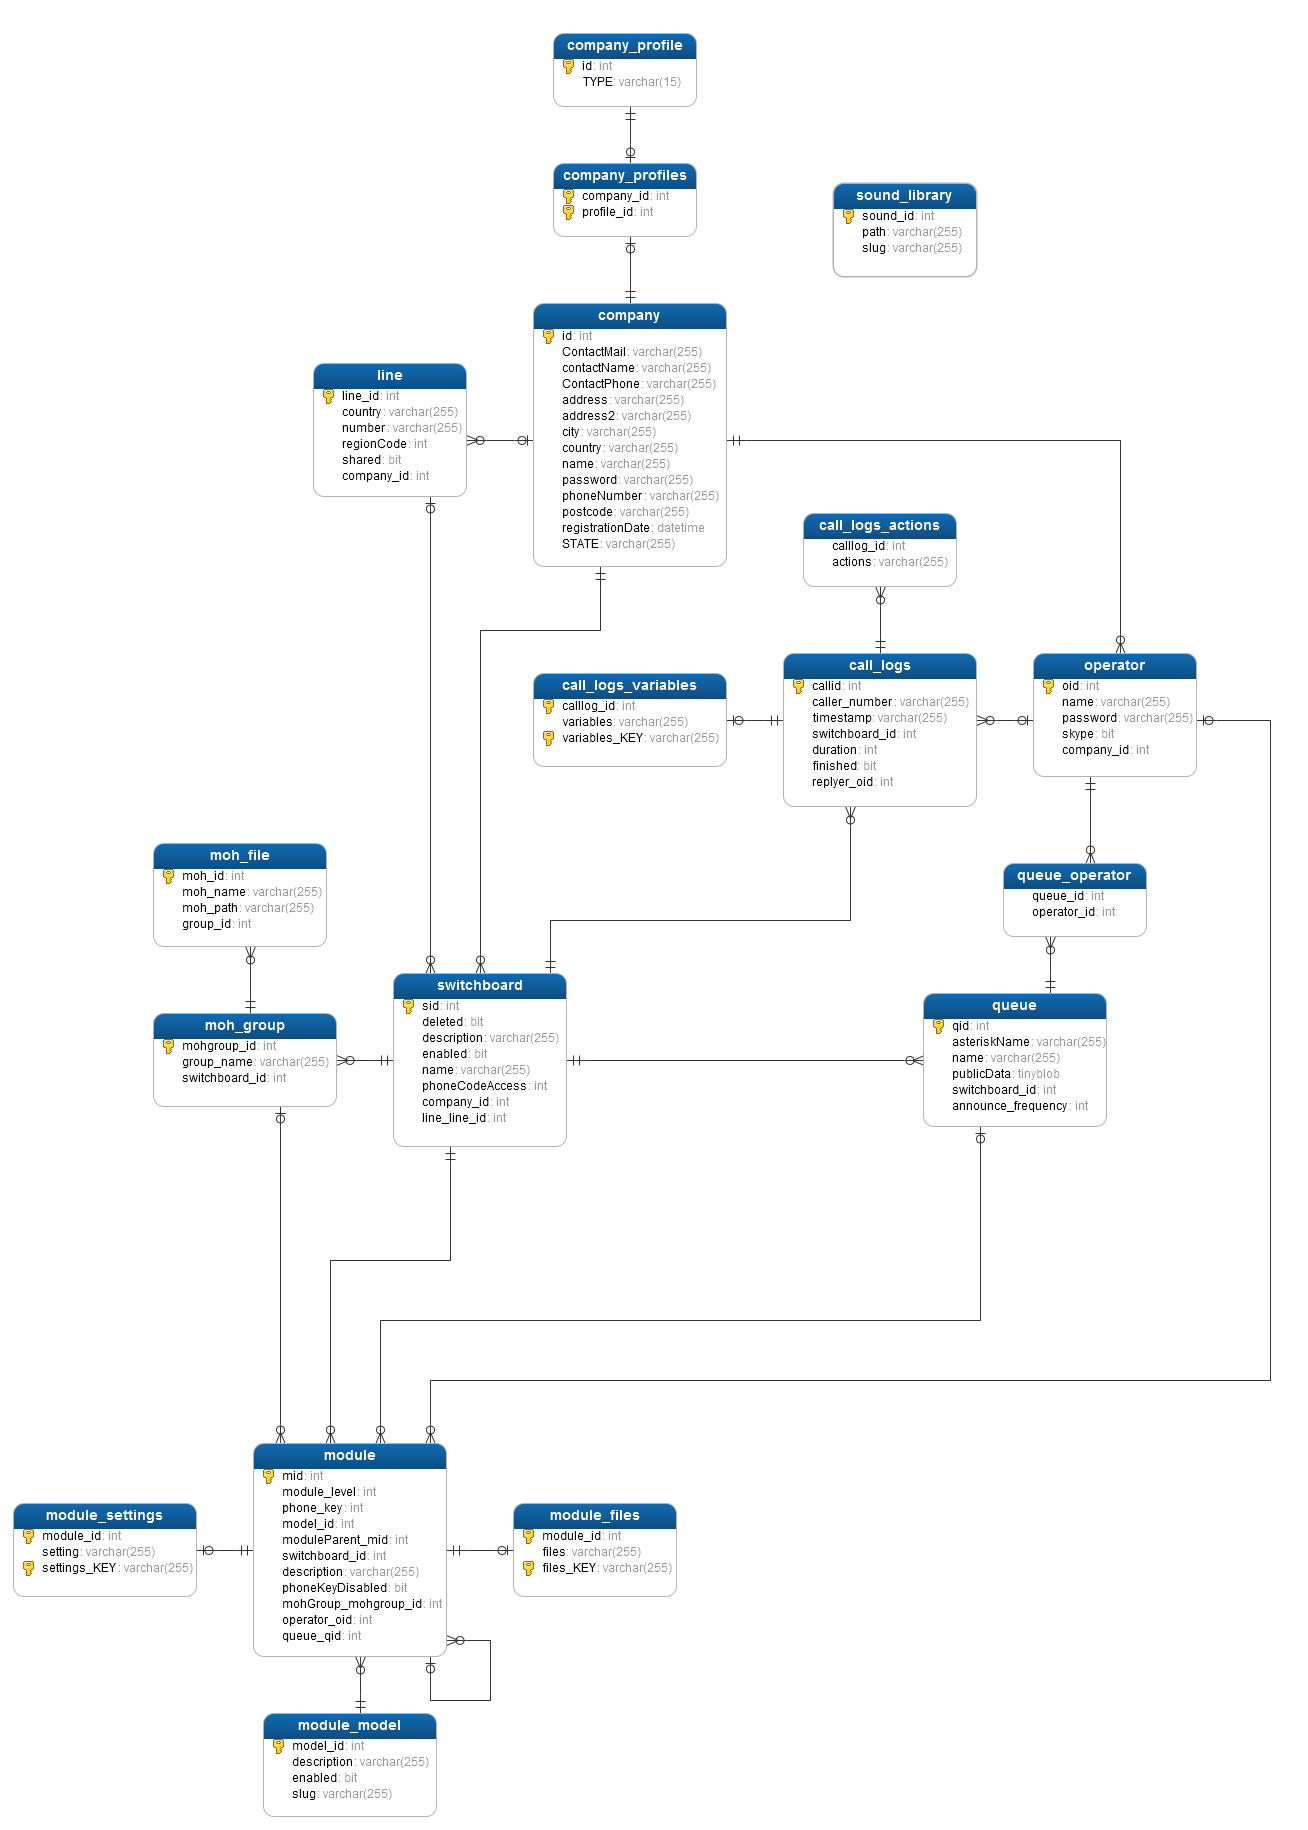
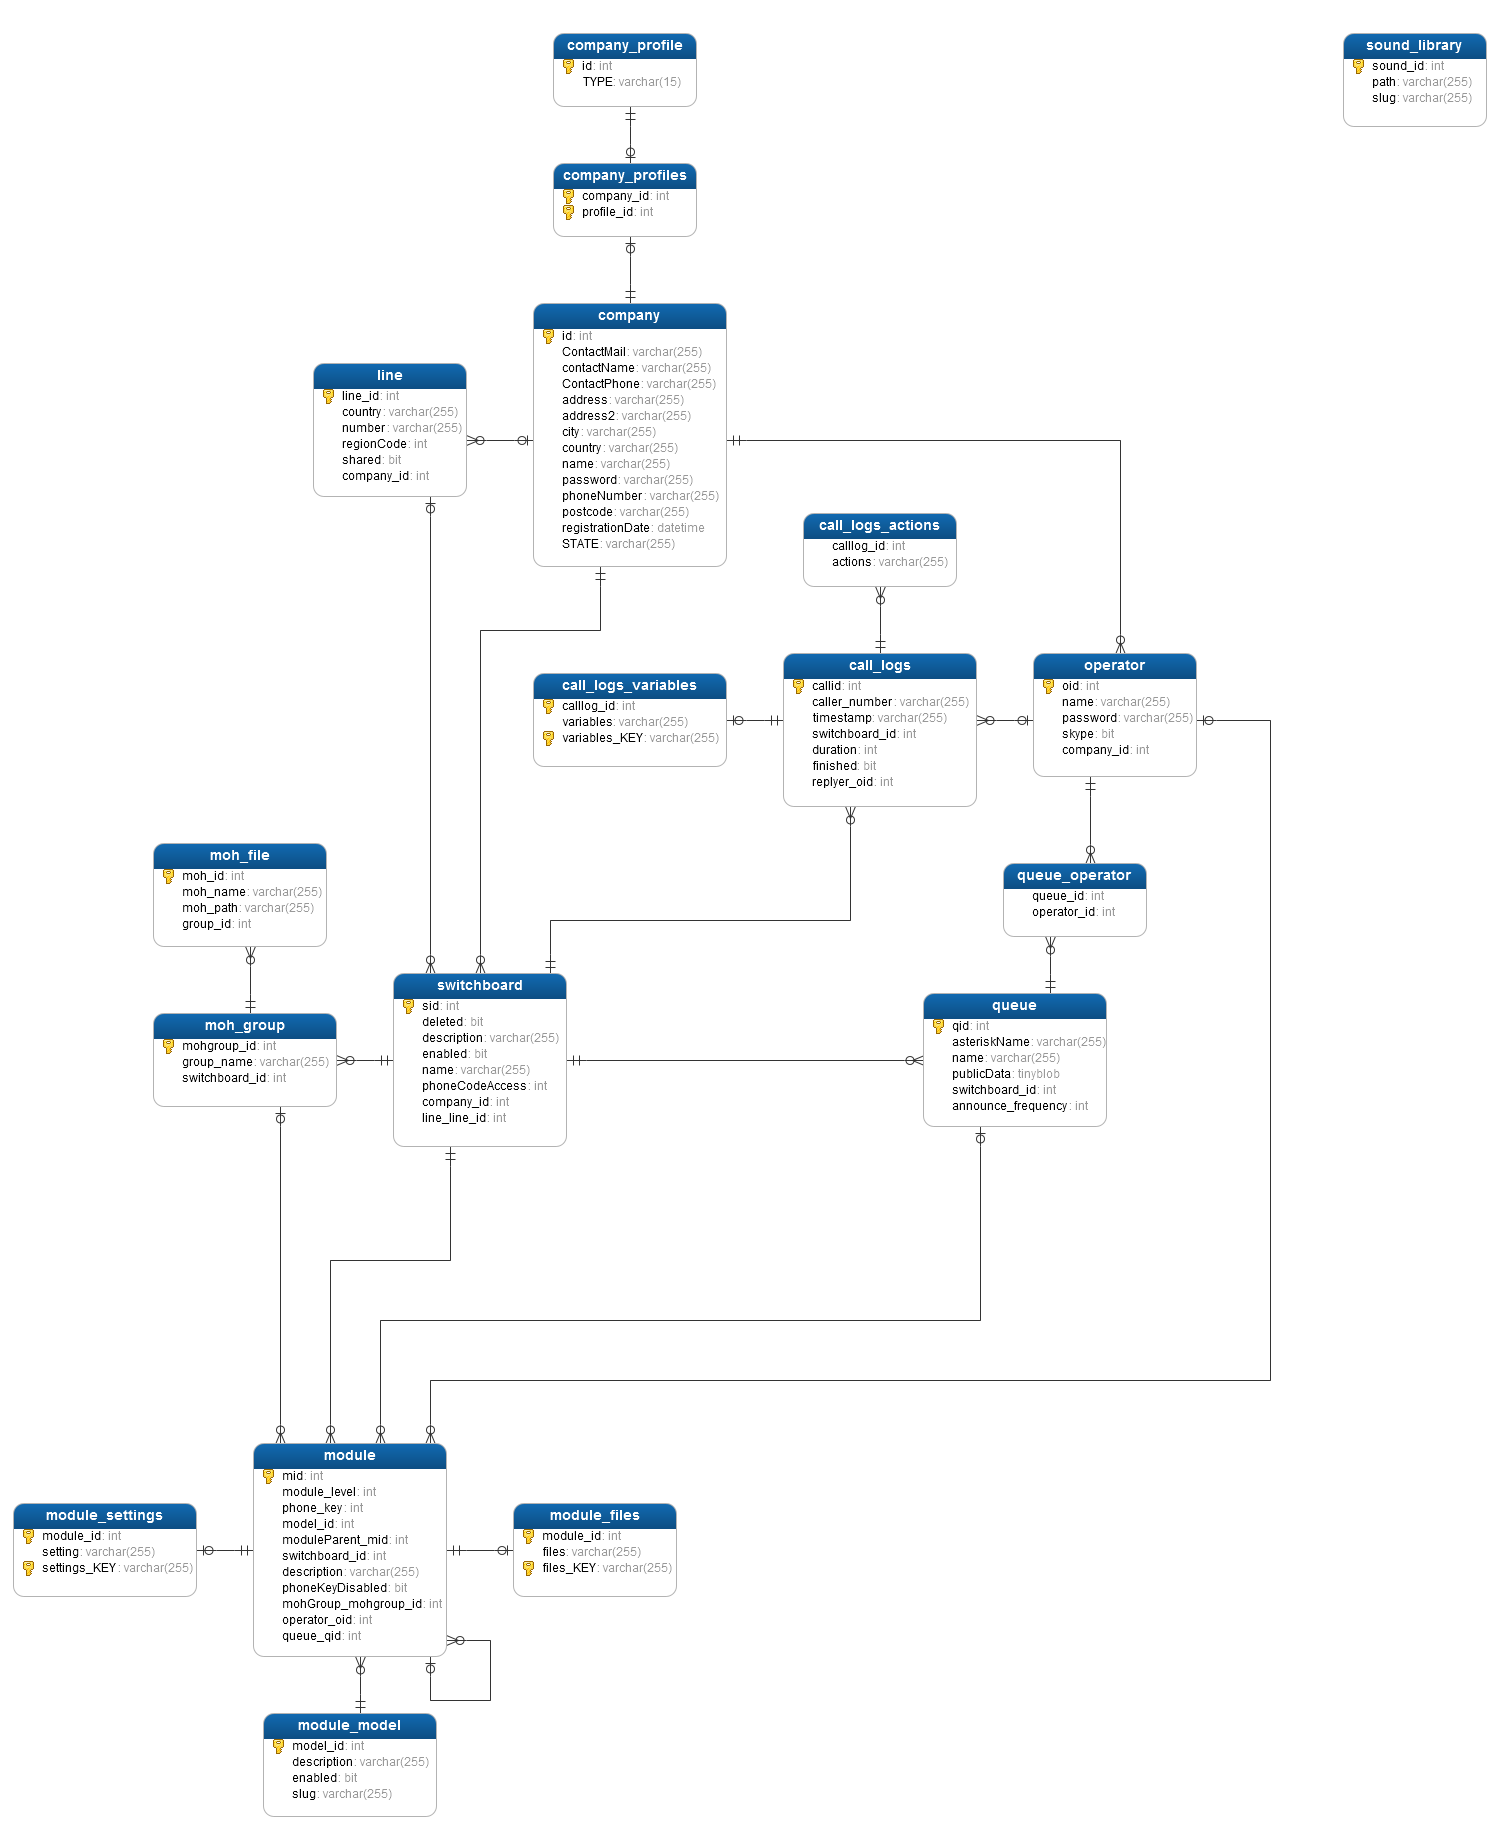
NodeJS report

diff --git a/doc/Asterisk.tex b/doc/Asterisk.tex
@@ -27,7 +27,7 @@ This is possible thanks to variables, conditions and functions provided in Aster
 Then, thanks to the function \textbf{DIALPLAN\_EXISTS(name)} the caller can be redirected on the right context. Otherwise, the call will be hang up. 
 
 
-\begin{figure}[!ht]
+\begin{figure}[H]
   \caption{ScotIPHOME context.}
   \centering
     \includegraphics[width=0.5\textwidth]{img/context_scotiphome.png}
@@ -53,7 +53,7 @@ Asterisk supports a lot of protocol but for this project, we only used the SIP p
 The SIP protocol is described by the \href{http://www.rfc-base.org/rfc-3261.html}{\textit{RFC 3261}}.
 
 
-\begin{figure}[!ht]
+\begin{figure}[H]
   \caption{SIP callflow example. Source: Wikipedia}
   \centering
     \includegraphics[width=1\textwidth]{img/callflow.png}
@@ -94,7 +94,7 @@ As for the SIP requests, SIP responses are delivered over UDP protocol. The resp
 Once a communication is established between a SIP client and a server, when an ACK command has been sent by the server, a new connection is established between them through the RTP protocol. It is this protocol, described for the first time in \textit{RFC 1889} in 1996, which allows the audio and video delivering. 
 
  
-\begin{figure}[!ht]
+\begin{figure}[H]
   \caption{RTP header.}
   \centering
     \includegraphics[width=1\textwidth]{img/rtpheader.png}
@@ -108,7 +108,7 @@ In order to emit and receive calls, we have to register on the network on our pr
 
 First, we have to write a registration string of this kind: \textit{register => username:password@provider.dot.ltd}. This line allows to register our server to use the provider network. The state of this connection through the command line: \textit{sip show registry}
 
-\begin{figure}[!ht]
+\begin{figure}[H]
   \caption{SIP registrations.}
   \centering
     \includegraphics[width=1\textwidth]{img/sipshowregistry.png}
@@ -119,7 +119,7 @@ First, we have to write a registration string of this kind: \textit{register => 
 For the second step, we have to tell Asterisk in which context the incoming calls have to be redirected, and also make some settings on the connection. (Eg: monitoring, incoming host...)
 Because on our project we only made possible incoming calls, we will not talk about outgoing calls in this report. For all these calls, they will be redirected on a local context called \textbf{phone\_incoming}, then redirected on a global context for all the project: \textbf{ScotIPHome}, which have been previously described.
 
-\begin{figure}[!ht]
+\begin{figure}[H]
   \caption{Incoming contexts.}
   \centering
     \includegraphics[width=0.5\textwidth]{img/contextsphones.png}
@@ -131,7 +131,7 @@ Because on our project we only made possible incoming calls, we will not talk ab
 \subsection{Calling Skype account}
 Because we couldn't afford a SIP line for Skype, thanks to our provider \textit{IPPI}, it becomes possible to emit calls to Skype. However, some configuration is still needed. Firstly, we have to register an outgoing context with IPPI.
 
-\begin{figure}[!ht]
+\begin{figure}[H]
   \caption{Skype context.}
   \centering
     \includegraphics[width=0.5\textwidth]{img/skypeout.png}
@@ -164,7 +164,7 @@ The second type of extension makes easier the job of the macro \textbf{wheretogo
 
 
 
-\begin{figure}[!ht]
+\begin{figure}[H]
   \caption{MOH declaraton}
   \centering
     \includegraphics[width=1\textwidth]{img/modname.png}
@@ -235,7 +235,7 @@ Furthermore, this application is also used for the module \textit{User input} on
 \subparagraph{About DTMF:}
 \textit{Dual-tone multi-frequency signaling} (DTMF) is an in-band telecommunication signaling system using the voice-frequency band over telephone lines. 
 
-\begin{figure}[!ht]
+\begin{figure}[H]
   \caption{DTMF frequencies.}
   \centering
     \includegraphics[width=0.5\textwidth]{img/dtmf.png}
@@ -329,8 +329,8 @@ directory=/absolute/path/to/directory
 The \textit{MOHCLASS} corresponds to the identifier which will can be used in applications. The directory have to contains the files to play. 
 
 
-\begin{figure}[!ht]
-  \caption{MOH declaraton}
+\begin{figure}[H]
+  \caption{MOH declaration}
   \centering
     \includegraphics[width=1\textwidth]{img/MOH.png}
 \end{figure}

diff --git a/doc/NodeJS.tex b/doc/NodeJS.tex
@@ -9,7 +9,7 @@ When an URL is called on the \textit{NodeJS} server, it will read some informati
 
 \section{Hapi Server}
 
-\begin{figure}[!ht]
+\begin{figure}[H]
   \caption{HapiJS logo.}
   \centering
     \includegraphics[width=0.5\textwidth]{img/hapijs}
@@ -20,6 +20,9 @@ When an URL is called on the \textit{NodeJS} server, it will read some informati
 \section{REST API}
 	
 \subsection{Dialplan generation}
+The following \textit{URL} will be called by the website when the dialplan has been updated or a module added.
+\newline
+
 URL: \textbf{/switchboards/{\textit{switchboardID}}}
 \paragraph{Needed parameters:}
 \begin{itemize}
@@ -42,28 +45,103 @@ URL: \textbf{/switchboards/{\textit{switchboardID}}}
 			\item Register the hang up extension, \textbf{h}, to notify the call end.
 		\end{itemize}	
 	\item Write to right file.
-	\item Reload the Asterisk server by \textit{CLI} command.
+	\item Reload the Asterisk server by \textit{CLI} command: : \textbf{asterisk -rx "dialplan reload"}.
 
 \end{itemize}
 
 \subsection{Operators}
+The following \textit{URL} will be called by the website when an operator has been added.
+\newline
+
 URL: \textbf{/operators/{\textit{companyId}}}
 
+\paragraph{Needed parameters:}
+\begin{itemize}
+\item {companyID} - A valid company ID
+\end{itemize}
+
+
+\paragraph{Algorithm:}
+\begin{itemize}
+	\item Loads all the operators from the company with provided ID.
+	\item Generates the configuration for Asterisk users. The configuration is based on the extension of an user model, with default settings. \textit{(Skype accounts not created)}
+	\item Write to right file.
+	\item Reload the Asterisk server by \textit{CLI} command.: \textbf{asterisk -rx "sip reload"}.
+
+\end{itemize}
+
+
+
 \subsection{MOH}
+The following \textit{URL} will be called by the website when a MOH group has been created.
+\newline
+
 URL: \textbf{/moh/{\textit{companyId}}}
 
+\paragraph{Needed parameters:}
+\begin{itemize}
+\item {companyID} - A valid company ID
+\end{itemize}
+
+
+\paragraph{Algorithm:}
+\begin{itemize}
+	\item Loads all the MOH group from the company with provided ID.
+	\item Generates the configuration with the MOH classes. 
+	\item Write to right file.
+	\item Reload the Asterisk server by \textit{CLI} command: \textbf{asterisk -rx "moh reload"}.
+
+\end{itemize}
+
+
+
+
 \subsection{Queues}
+The following \textit{URL} will be called by the website when a queue has been updated.
+\newline
+
+
 URL: \textbf{/queues/{\textit{switchboardId}}}
+
+\paragraph{Needed parameters:}
+\begin{itemize}
+\item {companyID} - A valid company ID
+\end{itemize}
+
+
+\paragraph{Algorithm:}
+\begin{itemize}
+	\item Loads all the Queues from the company with provided ID.
+	\item For each queue, register the Queue name and make it extends from a default model. Then, load all operators:
+	\begin{itemize}
+		\item Register all assigned operators to the queue with this line: \textbf{member => SIP/username}
+		\item If it is a Skype account, add \textbf{@skype}
+\end{itemize}	 
+	\item Write to right file.
+	\item Reload the Asterisk server by \textit{CLI} command: \textbf{asterisk -rx "queue reload all"}.
+
+\end{itemize}
+
+
+
 
 
 \subsection{Calls logs}
+\subsubsection{New call}
 URL: \textbf{/calls/new/{\textit{switchboardId}}}
 
+
+
+\subsubsection{End call}
 URL: \textbf{/calls/end/{\textit{callId}}}
 
+\subsubsection{Caller has made an action}
 URL: \textbf{/calls/action/{\textit{callId}}}
 
+\subsubsection{Caller has entered a variable}
 URL: \textbf{/calls/variable/{\textit{callId}}}
+
+
 
 \subsection{Module recordings}
 

diff --git a/doc/Scripts.tex b/doc/Scripts.tex
@@ -1,4 +1,4 @@
-\section{Some scripts}
+\section{Some scripts and databases schemas}
 
 \begin{figure}[!ht]
   \caption{Asterisk ScotIPHome context.}
@@ -23,4 +23,16 @@
   \caption{Conversion from MP3 to Asterisk readable format.}
   \centering
     \includegraphics[width=1\textwidth]{img/convertMP3.png}
+\end{figure}
+
+\begin{figure}[!ht]
+  \caption{Full models fields.}
+  \centering
+    \includegraphics[width=1\textwidth]{img/models.png}
+\end{figure}
+
+\begin{figure}[!ht]
+  \caption{Generated database schema.}
+  \centering
+    \includegraphics[width=1\textwidth]{img/db.png}
 \end{figure}
